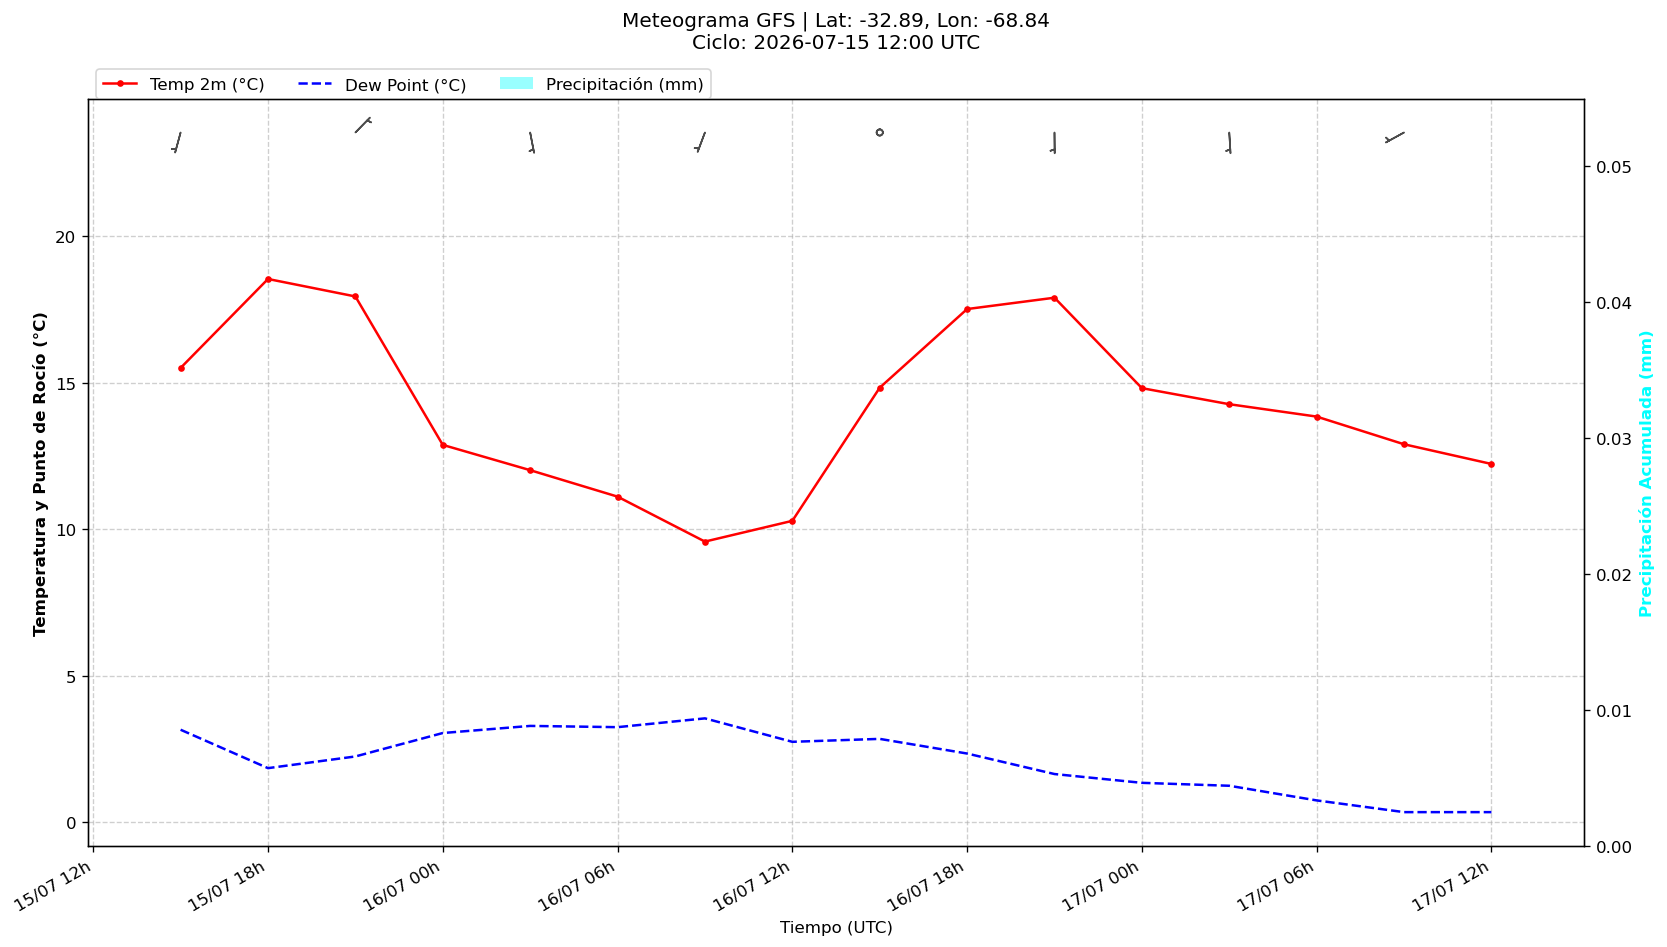
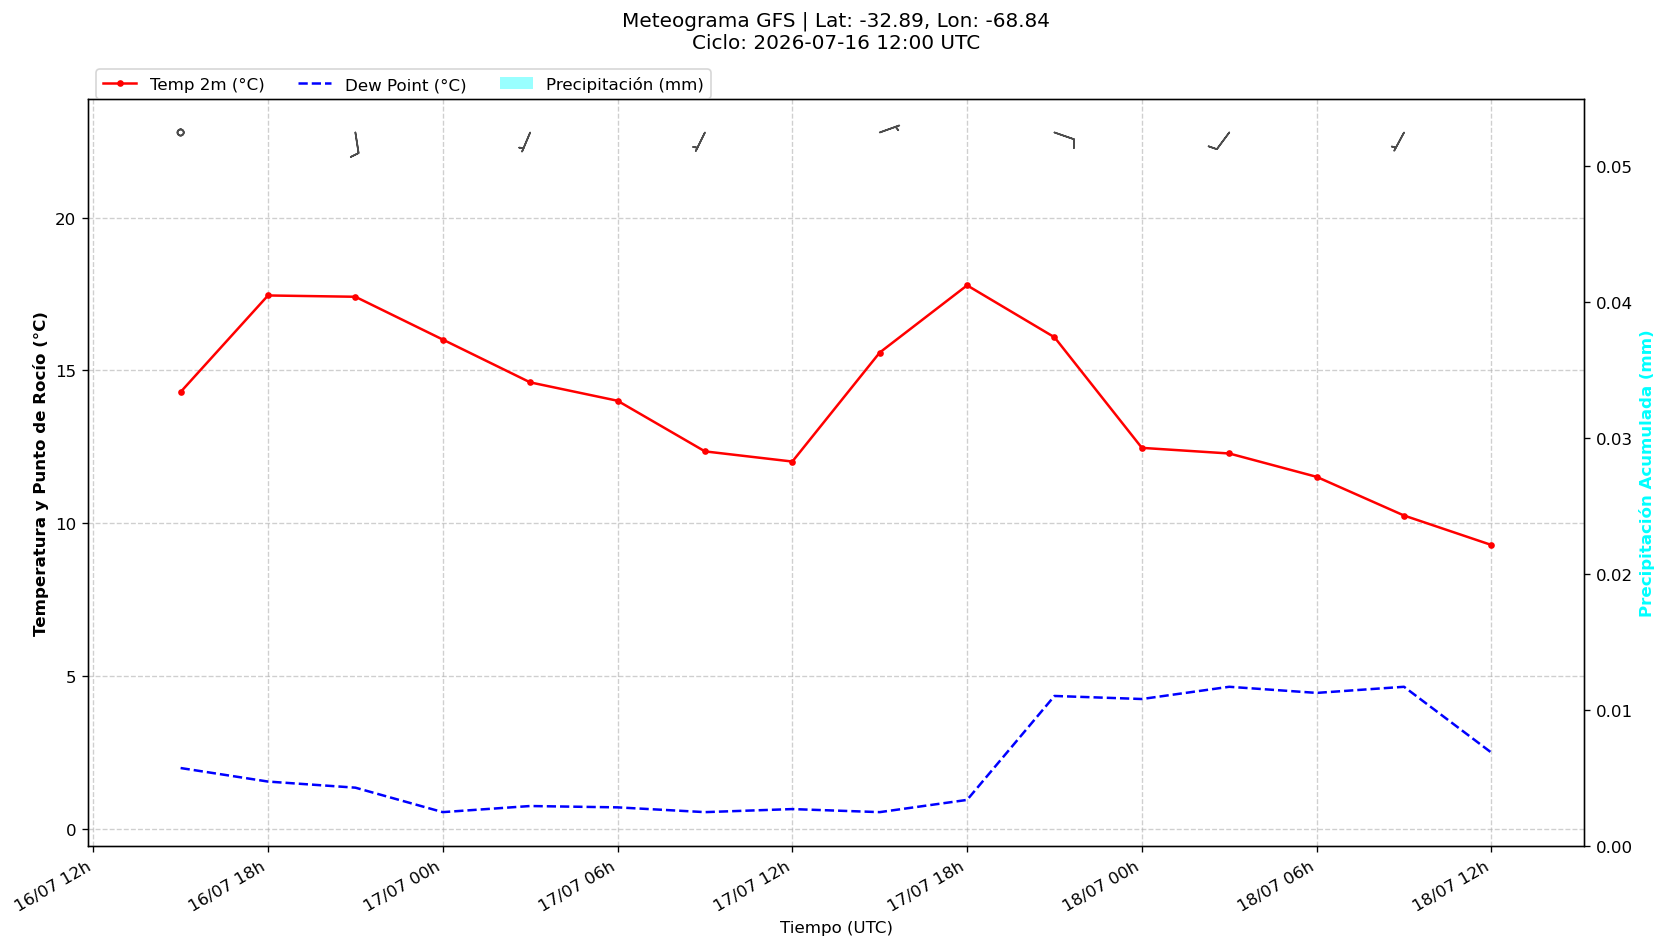
Update 16 jul

diff --git a/index.html b/index.html
@@ -20,15 +20,11 @@
                 <button class="nav-btn active" data-src="./output/gfs_500hPa.html" data-type="html">500 hPa Vorticity & Geopotential</button>
                 <button class="nav-btn" data-src="./output/gfs_250hPa.html" data-type="html">250 hPa Jet Stream</button>
                 <button class="nav-btn" data-src="./output/gfs_750hPa_RH.html" data-type="html">750 hPa Relative Humidity</button>
-<<<<<<< HEAD
                 <button class="nav-btn" data-src="./output/precipitacion.html" data-type="html">Precipitation</button>
                 <button class="nav-btn" data-src="./output/indices4.html" data-type="html">Stability Indices</button>
-=======
-                <button class="nav-btn" data-src="./output/gfs_750hPa_vertical_velo.html" data-type="html">750 hPa Vertical Velocity</button>
                 <button class="nav-btn" data-src="./output/gfs_adv_espesor3.html" data-type="html">Thickness Advection</button>
                 <button class="nav-btn" data-src="./output/gfs_indices.html" data-type="html">Stability Indices I</button>
                 <button class="nav-btn" data-src="./output/gfs_indices3.html" data-type="html">Stability Indices II</button>
->>>>>>> origin/main
                 <button class="nav-btn" data-src="./output/gfs_pwat.html" data-type="html">Precipitable Water (PWAT)</button>
                 <button class="nav-btn" data-src="./output/gfs_thetae.html" data-type="html">Equivalent Temp (Theta-E)</button>
                 <button class="nav-btn" data-src="./output/meteograma.png" data-type="image">Meteogram (PNG)</button>